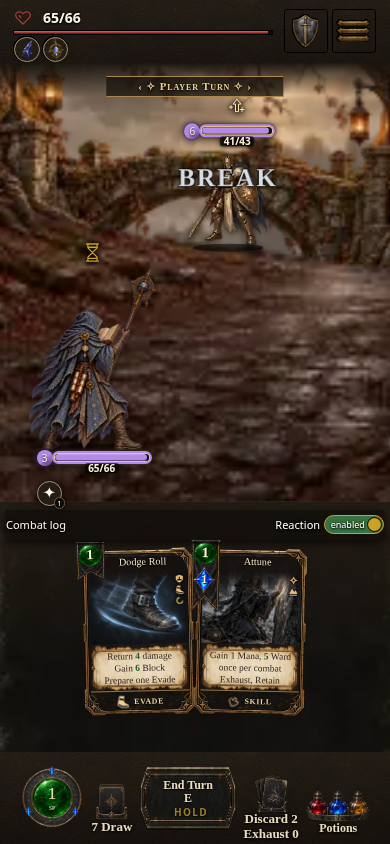
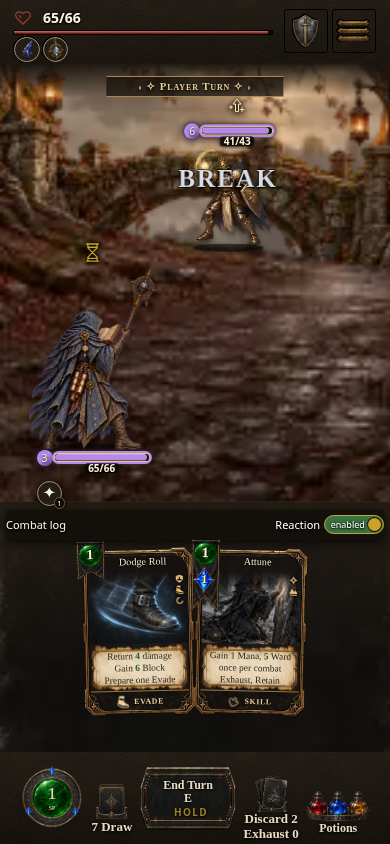
Show spell recovery with the integrated enemy stance art

Changed region(s): [[0.4615, 0.1848, 0.6769, 0.3081], [0.6769, 0.1848, 0.7077, 0.2156]]

diff --git a/docs/preview/starseer-spell-reactions/README.md b/docs/preview/starseer-spell-reactions/README.md
@@ -1,6 +1,6 @@
 # Starseer spell reaction repair — PR #1985
 
-Captured 2026-10-14 in Chromium from the rebuilt light standalone HTML at source commit `7da4cbf01`, digest `ea93dde853`, local build `0.7.1.1522`. These are controlled combat fixtures, not completed player runs. The engine creates the canonical Gilded Knight, including defenses, reaction and learning state. The Staff Magic Strike scenario keeps seed B's real Starseer opening hand and loadout, including Dodge Roll; its Gilded Guard prompt is answered through the visible **Resolve** button. Star Spark uses two registered spell instances with sufficient resources. Rendering, legal targeting, dispatch, reactions and animations remain the production HTML code.
+Captured 2026-10-14 in Chromium from the rebuilt light standalone HTML at source commit `203f1e783c84a4e3e48d5e9f16059ca8bcc8416e`, digest `8608b83b24`, local build `0.7.1.1524`, using the verified `hd-assets-v23` light/common packs and integrated enemy stance renderer. These are controlled combat fixtures, not completed player runs. The engine creates the canonical Gilded Knight, including defenses, reaction and learning state. The Staff Magic Strike scenario keeps seed B's real Starseer opening hand and loadout, including Dodge Roll; its Gilded Guard prompt is answered through the visible **Resolve** button. Star Spark uses two registered spell instances with sufficient resources. Rendering, legal targeting, dispatch, reactions and animations remain the production HTML code.
 
 - Desktop, 1440 × 900: two Star Sparks reduce Gilded Knight from **43 to 38 HP**.
 - Phone, 390 × 844: two default Staff Magic Strikes reduce it from **43 to 41 HP**.
@@ -9,13 +9,13 @@ Captured 2026-10-14 in Chromium from the rebuilt light standalone HTML at source
 
 ![Phone Staff Magic Strike spells resolved](phone-staff-magic-strike.png)
 
-The browser probe clicks an exposed enemy figure area on desktop, then its target-list button; phone uses the visible target buttons. All four spell/device cases produce two paid spell receipts with exact Actions, Mana and Stamina deltas, a real Gilded Guard reaction, damage receipts, an empty queue, no pending reaction and usable End Turn. It captures page errors, caught dispatch warnings and unhandled promise rejections; all were empty. Largest action long tasks were under 300 ms in the earlier four-case run, with no sustained freeze.
+The browser probe clicks an exposed enemy figure area on desktop, then its target-list button; phone uses the visible target buttons. All four spell/device cases produce two paid spell receipts with exact Actions, Mana and Stamina deltas, a real Gilded Guard reaction, damage receipts, an empty queue, no pending reaction and usable End Turn. It captures page errors, caught dispatch warnings and unhandled promise rejections; all were empty. The largest action long task in this integrated four-case run was 259 ms, with no sustained freeze.
 
 Original source `7ba2e35e299dc453ece9a42dc50f34d9847540b8` was rebuilt with the matching art pin, digest `eee13c5642`. The same final browser fixture rejects the first Staff Magic Strike with **`reactionPaused is not a function`**, no paid receipt and unchanged Knight HP. The reported GitHub artifact was identified, but its 50 MB archive exceeded the transfer tool's 32 MiB limit and CLI API access was blocked by environment policy; this reproduction is explicitly the exact original source rebuild, not a downloaded archive.
 
 The compiled loader snapshots the cyclic `combatReactions → enemyReactions → combatReactions` named import before `reactionPaused` initializes. A dependency-free shared state predicate breaks that cycle. Native ESM tests retain live bindings and missed it. `tests/combat-bundled-enemy-reactions.test.mjs` runs the actual production transform/import order: both spell scenarios fail on the original source and pass with this repair.
 
-Validation: 151 core checks, 63 focused bundled/player/enemy reaction tests, receipt and changelog projection/order checks, and four real-browser scenarios passed. Raw reports and full screenshot sets stay in scratch/CI artifacts; only these two curated screenshots are tracked.
+Integrated validation: 107 focused bundled/player/enemy reaction and build-stamp tests, receipt and changelog projection/order checks, and four real-browser scenarios passed. The exact source head also passed every PR CI check, including the core suite, all discovered shards, Quick Start, Workbench and preview. Raw reports and full screenshot sets stay in scratch/CI artifacts; only these two curated screenshots are tracked.
 
 Reproduce the browser proof with a served standalone HTML beside the source tree (or provide a separate source base):
 
@@ -26,4 +26,4 @@ QA_OUTPUT=/tmp/starseer-spell-qa \
 node tools/starseer-spell-reactions-qa.mjs
 ```
 
-Verified CI standalone preview for the repaired runtime: [download artifact](https://github.com/cehinds/AshenSpire/actions/runs/38634501028/artifacts/11926724570), from the run associated with source head `7da4cbf01`. The artifact is an HTML download, not a verified hosted page. Current delivery status is tracked in [PR #1985](https://github.com/cehinds/AshenSpire/pull/1985).
+Verified CI standalone preview for the repaired runtime: [download artifact](https://github.com/cehinds/AshenSpire/actions/runs/38639117138/artifacts/11928768449), from the run associated with source head `203f1e783`. The artifact is an HTML download, not a verified hosted page. Current delivery status is tracked in [PR #1985](https://github.com/cehinds/AshenSpire/pull/1985).
